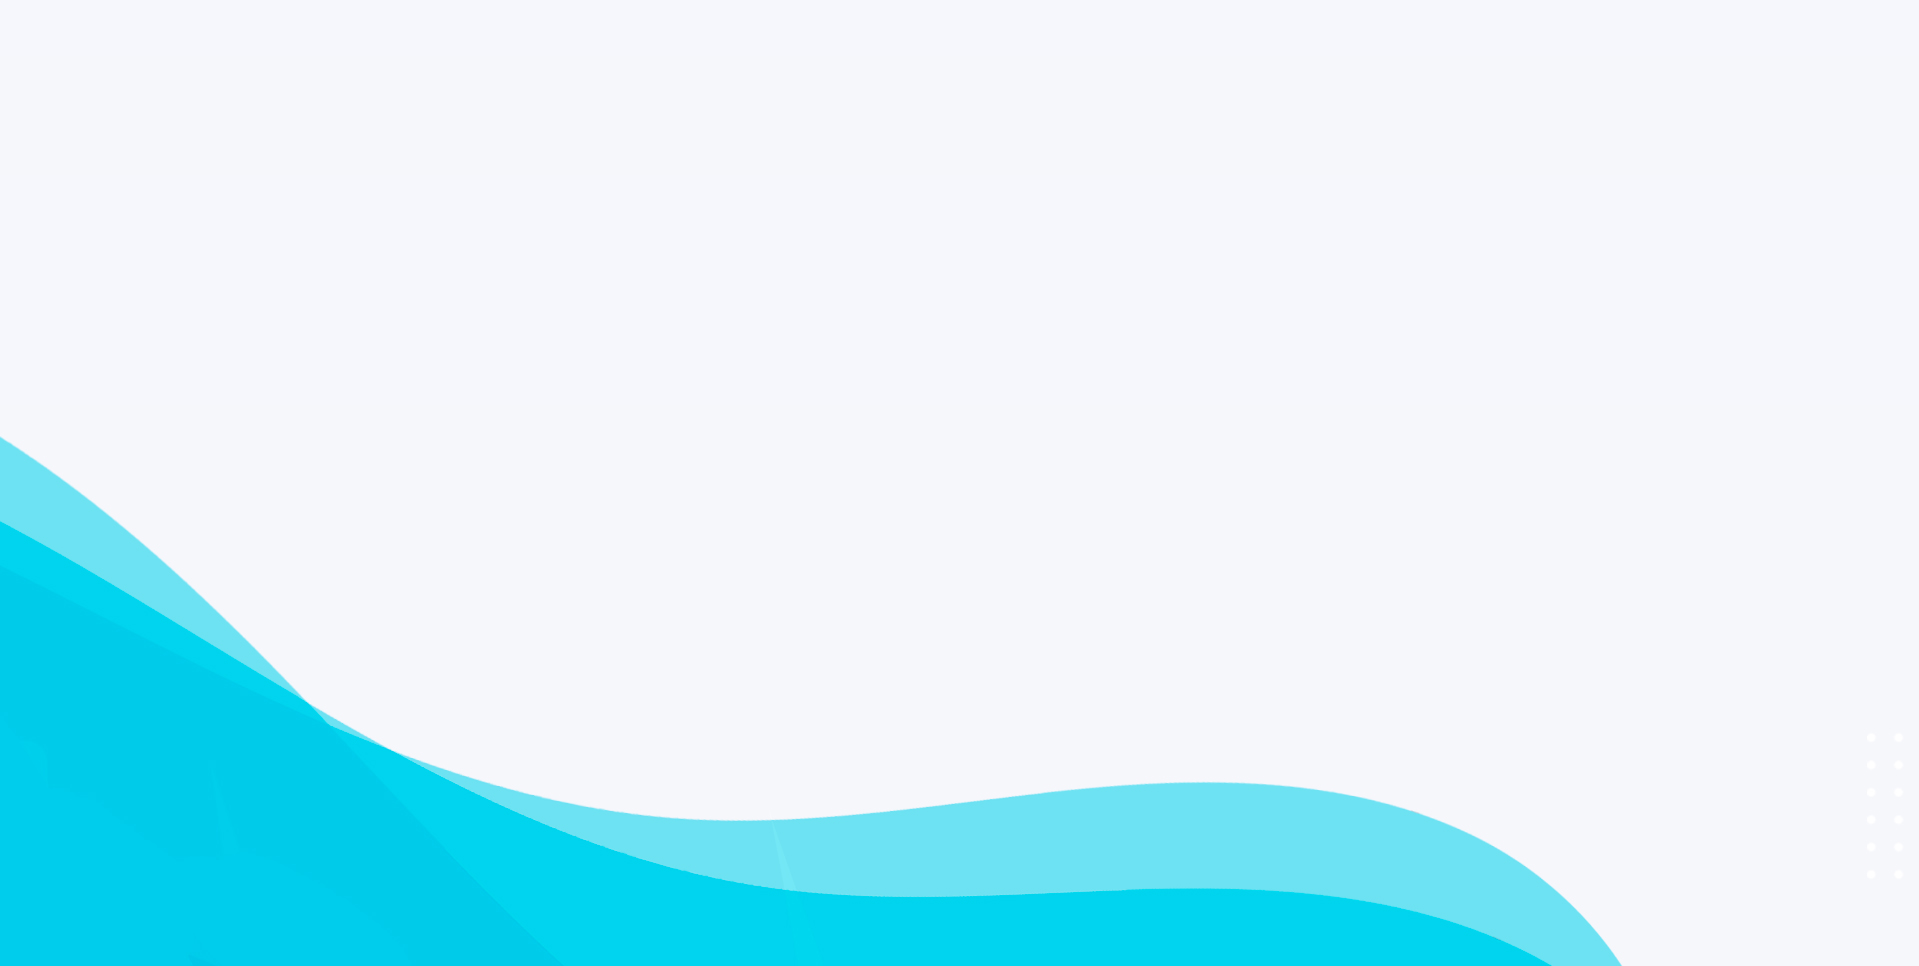
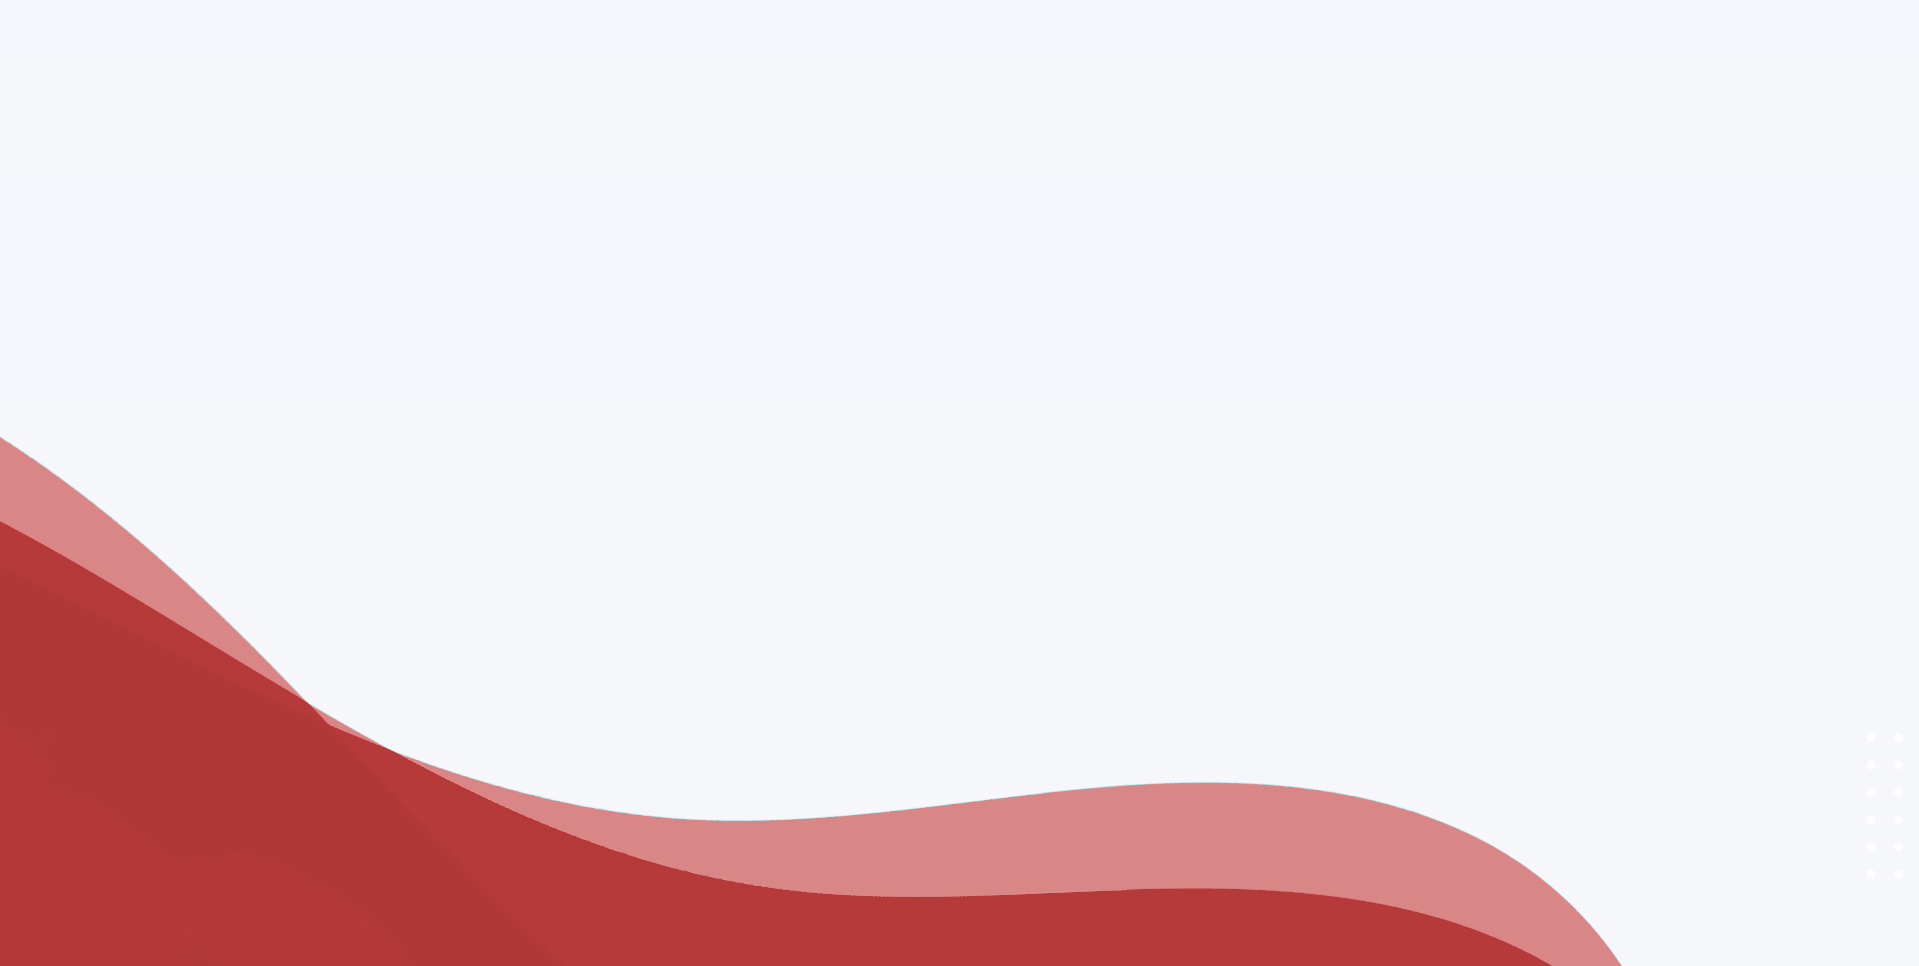
fix images

Changed region(s): [[0.0, 0.4658, 0.8609, 1.0]]

diff --git a/src/scss/_custom.scss b/src/scss/_custom.scss
@@ -537,27 +537,27 @@
   transition: 0.1s ease-in-out;
 
   &:hover {
-    border-color: #00BEE4;
+    border-color: #420F16;
     color: #F7F7F7;
     box-shadow: 3px 5px 7px #333;
-    background-color: #01BDE2;
+    background-color: #420F16;
   }
 
   &:focus {
-    border-color: #00BEE4;
+    border-color: #420F16;
     color: #F7F7F7;
     box-shadow: none;
-    background-color: #00BEE4;
+    background-color: #420F16;
 
     &:hover {
-      border-color: #00BEE4;
+      border-color: #420F16;
       color: #F7F7F7;
       box-shadow: 3px 5px 7px #333;
-      background-color: #01BDE2;
+      background-color: #420F16;
 
       &:active {
-        border-color: #00BEE4;
-        color: #00BEE4;
+        border-color: #420F16;
+        color: #420F16;
         box-shadow: 3px 5px 7px #333;
         background-color: #F7F7F7;
       }
@@ -971,7 +971,7 @@
   }
 
   &:hover {
-    background: #01BDE2;
+    background: #AC2B39;
     border-color: #eee;
     color: #eee;
 
@@ -1023,7 +1023,7 @@
 }
 
 .table-striped>tbody>tr:nth-of-type(odd)>* {
-  --cui-table-accent-bg: #f6fcfe;
+  --cui-table-accent-bg: #FDF3F3;
   color: var(--cui-table-striped-color);
 }
 
@@ -1060,7 +1060,7 @@
   text-decoration: none;
 
   &:hover {
-    color: #01BDE2 !important;
+    color: #AC2B39 !important;
   }
 
   -webkit-touch-callout: none;
@@ -1079,7 +1079,7 @@
   text-decoration: none;
 
   &:hover {
-    color: #01BDE2 !important;
+    color: #AC2B39 !important;
   }
 
   -webkit-touch-callout: none;
@@ -1110,14 +1110,14 @@
 
   &:hover {
     color: white !important;
-    background-color: #01BDE2;
+    background-color: #AC2B39;
   }
 }
 
 
 .paginationActive a {
   color: white !important;
-  background-color: #01BDE2;
+  background-color: #AC2B39;
 }
 
 .paginationBttns .paginationDisabled a {
@@ -1157,7 +1157,7 @@
 //tree
 
 html:not([dir=rtl]) .callout-primary {
-  border-left-color: #01BDE2;
+  border-left-color: #AC2B39;
 }
 
 .btn-secondary {
@@ -1254,13 +1254,13 @@ html:not([dir=rtl]) .callout-primary {
   --cui-alert-border-color: #F5F7FA;
 }
 .btn-ghost-primary {
-  --cui-btn-color: #01BDE2;
+  --cui-btn-color: #AC2B39;
   --cui-btn-hover-bg: #F7F7F7;
   --cui-btn-hover-border-color: #F7F7F7;
   --cui-btn-hover-color: #000015;
   --cui-btn-active-bg: #F7F7F7;
   --cui-btn-active-border-color: #F7F7F7;
   --cui-btn-active-color: #000015;
-  --cui-btn-disabled-color: #01BDE2;
+  --cui-btn-disabled-color: #AC2B39;
   --cui-btn-shadow: rgba(255, 255, 255, 0);
 }

diff --git a/src/scss/_landingPage.scss b/src/scss/_landingPage.scss
@@ -212,7 +212,7 @@ img {
 }
 
 .btn-landing:hover {
-    background-color: #007E96;
+    background-color: #8C2534;
     color: #fff;
 }
 
@@ -305,7 +305,7 @@ nav .containerL {
 
 .linksL a.active:hover {
     color: var(--light-one);
-    background-color: #007E96;
+    background-color: #8C2534;
 }
 
 .hamburger-menu {
@@ -741,7 +741,7 @@ nav.open .linksL {
 }
 
 .input-arrowL:hover {
-    background-color: #007E96;
+    background-color: #8C2534;
 }
 
 .focus {
@@ -824,7 +824,7 @@ nav.open .linksL {
 }
 
 .back-btn-landing:hover {
-    background-color: #007E96;
+    background-color: #8C2534;
     color: #f3f3f3;
 }
 
@@ -1448,7 +1448,7 @@ nav.open .linksL {
     content: "";
     width: 0%;
     height: 3px;
-    background-color: #01BDE2;
+    background-color: #AC2B39;
     transition: all 0.5s;
 }
 

diff --git a/src/views/servicio/ServicioList.js b/src/views/servicio/ServicioList.js
@@ -279,7 +279,7 @@ const CatalogoList = (props) => {
                                 servicio={service.apiBackend}
                                 baseRoute={rutas.servicio.base}
                                 rootParms={props}
-                                pageSize={5}
+                                pageSize={7}
                                 defaltQuery={state.defaltQuery}
                             ></GridTable>
                         </CRow>

diff --git a/src/views/pages/login/Login.js b/src/views/pages/login/Login.js
@@ -20,8 +20,6 @@ import logo from "../../../assets/landingPage/logo.png"
 import { Link } from "react-router-dom";
 import { Navigate } from "react-router-dom";
 import * as actions from "../../../redux/actions/usuario";
-import logoUsaid from "../../../assets/brand/logoUsaid.png";
-import loginFondo from "../../../assets/brand/login2.png";
 import logoH from "../../../assets/brand/escudoH333.png";
 
 const Login = () => {

diff --git a/src/components/header/AppHeaderDropdown.js b/src/components/header/AppHeaderDropdown.js
@@ -23,7 +23,7 @@ import rutas from "../../views/rutas";
 import { useNavigate } from 'react-router-dom'
 import { connect, useDispatch, useSelector } from 'react-redux'
 import * as actions from "../../redux/actions/usuario";
-import avatar8 from './../../assets/images/avatars/3.png'
+
 import { FaUserTie } from 'react-icons/fa';
 import { AiFillCaretDown } from 'react-icons/ai';
 import AuthGuard from "../../seguridad";

diff --git a/src/components/Reloj.js b/src/components/Reloj.js
@@ -1,6 +1,5 @@
 import React, { useEffect, useState } from "react";
 import { CCard, CCardTitle, CPlaceholder, CSpinner } from '@coreui/react';
-import relojBg from "../assets/images/relojBg.png"
 import { BsCalendar3 } from "react-icons/bs"
 function Clock() {
   const [miniLoading, setMiniLoading] = useState(true);

diff --git a/src/config/endpoints.js b/src/config/endpoints.js
@@ -1,5 +1,5 @@
 export default {
   auth: 'http://40.87.120.90:8081/api/',
-  backend: 'http://localhost:8081/api/',
+  backend: 'http://40.87.120.90:8082/api/',
   backendArchivos: 'http://40.87.120.90:8083/api/',
 };
